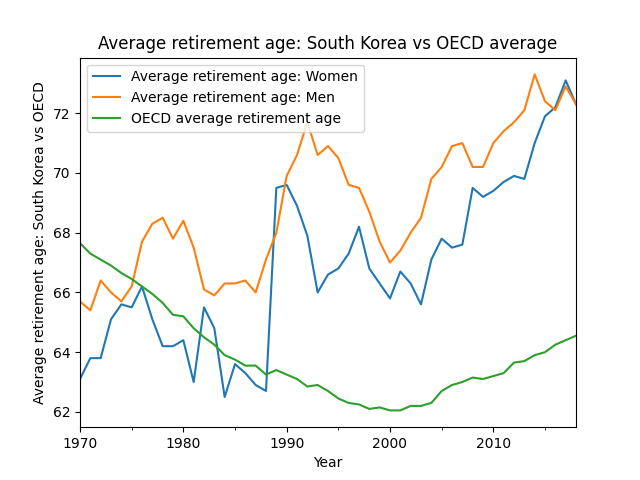
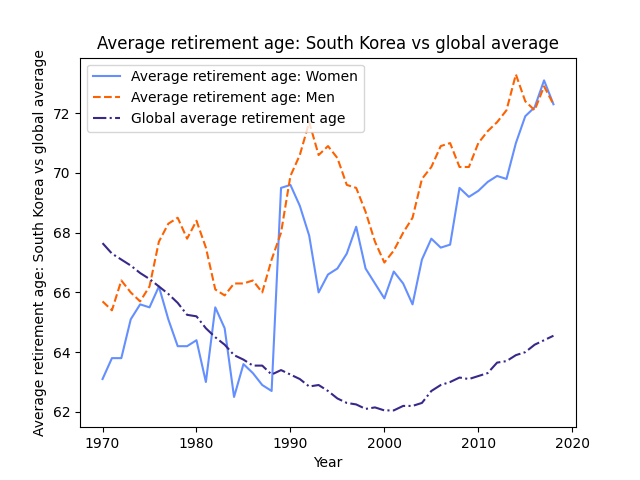
amended data analysis program to generate graphs with independent line colours and styles depending on what it represents. also added a mock_csv and a mock line plotting program that are now redundant.

diff --git a/portfolio/data-presentation-project/avg_retirement_age_women.py b/portfolio/data-presentation-project/avg_retirement_age_women.py
@@ -29,6 +29,29 @@ s_korea_df = pd.merge(s_korea_df, oecd_df, on='Year')
 
 # making new graphs using the new dataframes.
 
+fig, ax = plt.subplots()
+
+ax.plot(japan_df['Year'], japan_df['Average retirement age: Women'], color = '#648FFF')
+ax.plot(japan_df['Year'], japan_df['Average retirement age: Men'], color = '#FE6100', ls = '--')
+ax.plot(japan_df['Year'], japan_df['OECD average retirement age'], color = '#39288A', ls = '-.')
+ax.set_xlabel('Year')
+ax.set_ylabel('Average retirement age: Japan vs global average')
+ax.set_title('Average retirement age: Japan vs global average')
+plt.legend(['Average retirement age: Women','Average retirement age: Men','Global average retirement age'])
+
+fig, ax = plt.subplots()
+
+ax.plot(s_korea_df['Year'], s_korea_df['Average retirement age: Women'], color = '#648FFF')
+ax.plot(s_korea_df['Year'], s_korea_df['Average retirement age: Men'], color = '#FE6100', ls = '--')
+ax.plot(s_korea_df['Year'], s_korea_df['OECD average retirement age'], color = '#39288A', ls = '-.')
+ax.set_xlabel('Year')
+ax.set_ylabel('Average retirement age: South Korea vs global average')
+ax.set_title('Average retirement age: South Korea vs global average')
+plt.legend(['Average retirement age: Women','Average retirement age: Men','Global average retirement age'])
+plt.show()
+
+'''
+
 japan_vs_oecd_graph = japan_df.plot(kind = 'line', x = 'Year', 
                                y = ['Average retirement age: Women', 'Average retirement age: Men', 'OECD average retirement age'], 
                                ylabel = 'Average retirement age: Japan vs OECD', 
@@ -37,6 +60,8 @@ japan_vs_oecd_graph = japan_df.plot(kind = 'line', x = 'Year',
 japan_vs_oecd_figure = japan_vs_oecd_graph.get_figure()
 japan_vs_oecd_figure.savefig("japan_vs_oecd_fig.png")
 
+colours = ['#AF164E', '#1E92E5', '#FF9C24']
+
 s_korea_vs_oecd_graph = s_korea_df.plot(kind = 'line', x = 'Year', 
                                y = ['Average retirement age: Women', 'Average retirement age: Men', 'OECD average retirement age'], 
                                ylabel = 'Average retirement age: South Korea vs OECD', 
@@ -44,3 +69,5 @@ s_korea_vs_oecd_graph = s_korea_df.plot(kind = 'line', x = 'Year',
 
 s_korea_vs_oecd_figure = s_korea_vs_oecd_graph.get_figure()
 s_korea_vs_oecd_figure.savefig("s_korea_vs_oecd_fig.png")
+
+'''

diff --git a/portfolio/data-presentation-project/plot_testing.py b/portfolio/data-presentation-project/plot_testing.py
@@ -1,0 +1,11 @@
+import matplotlib.pyplot as plt
+import numpy as np
+import pandas as pd
+
+mock_data = pd.read_csv('mock_csv.csv')
+
+def plotter(data):
+    return plt.plot(data)
+
+plotted_mock = plotter(mock_data)
+plotted_mock.get_figure()
